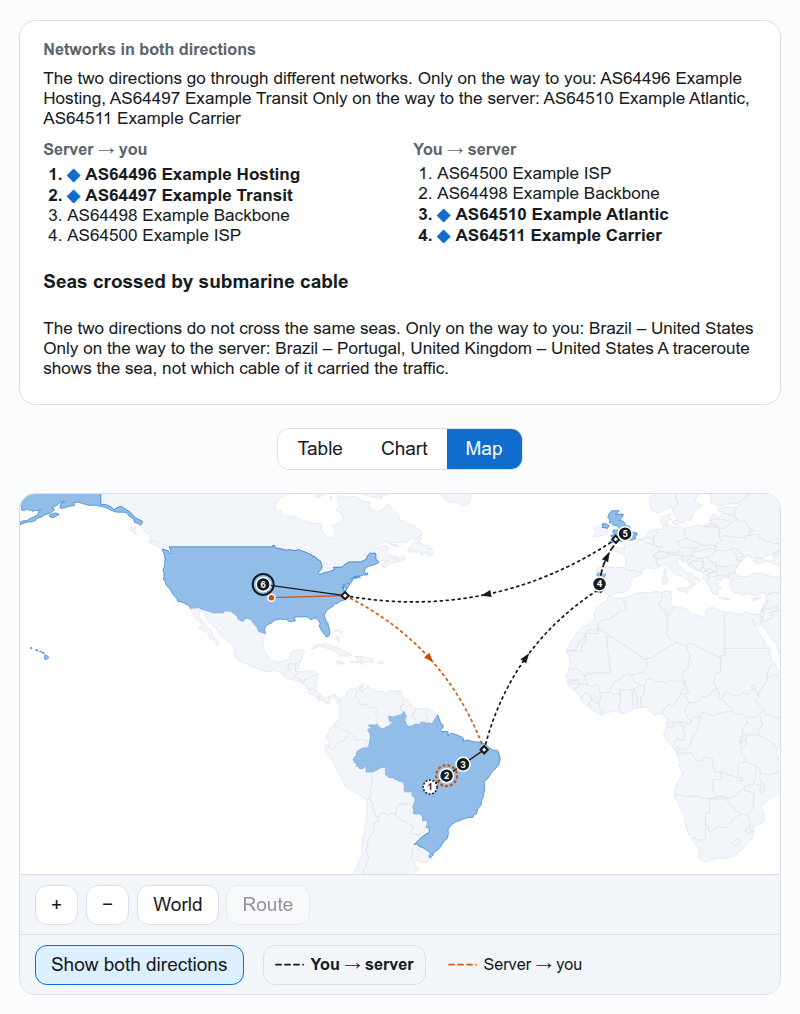
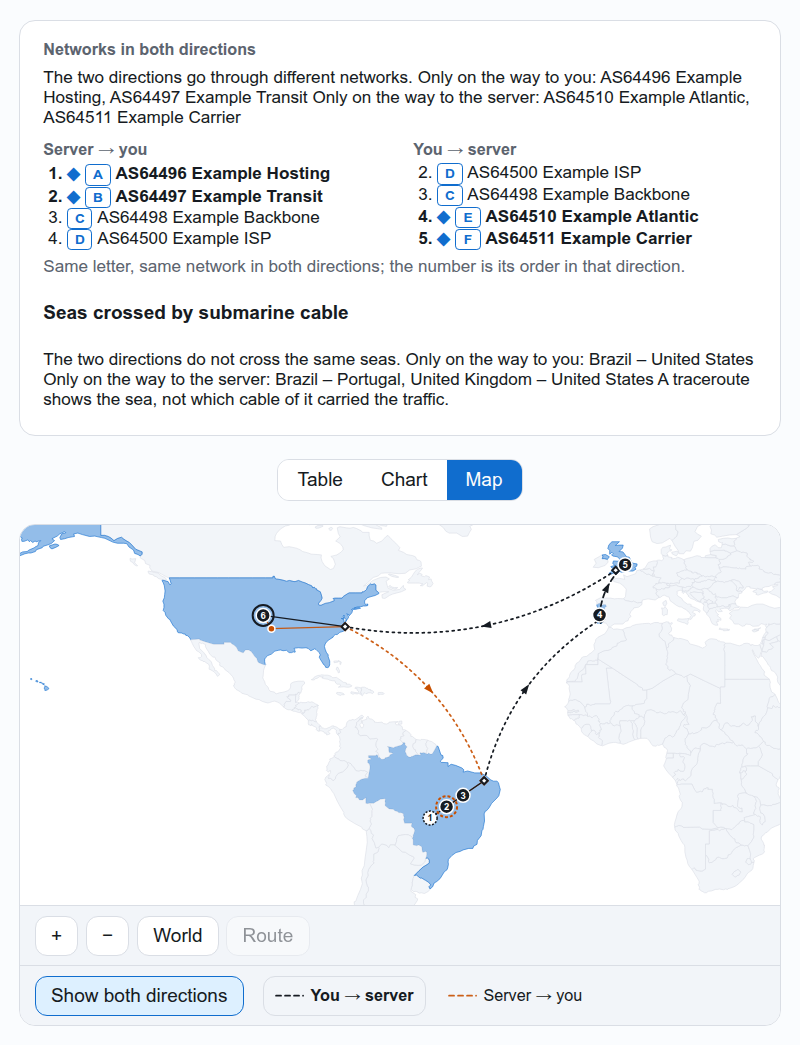
docs: README image with the letters of the networks

diff --git a/README.md b/README.md
@@ -28,7 +28,8 @@ No Flash, No Java, No Websocket, No Bullshit.
 
 *The animations were recorded on a local test server with a limited, simulated connection. The route image is an example: both routes
 are made up and the networks are fictional (`Example ...`); it shows the server to you route, and a way back pasted from your own
-device that returns through other countries, with the seas each direction crosses.*
+device that returns through other countries, with the seas each direction crosses. A letter marks the same network in both
+directions; the number is its order in that direction.*
 
 Common to the three: English, Portuguese, Spanish and Swedish; light, dark and high-contrast modes, colours, fonts, icon sets and
 backgrounds that you pick in a panel; text size; and no request to a third party when the page loads, because the fonts, the chart
